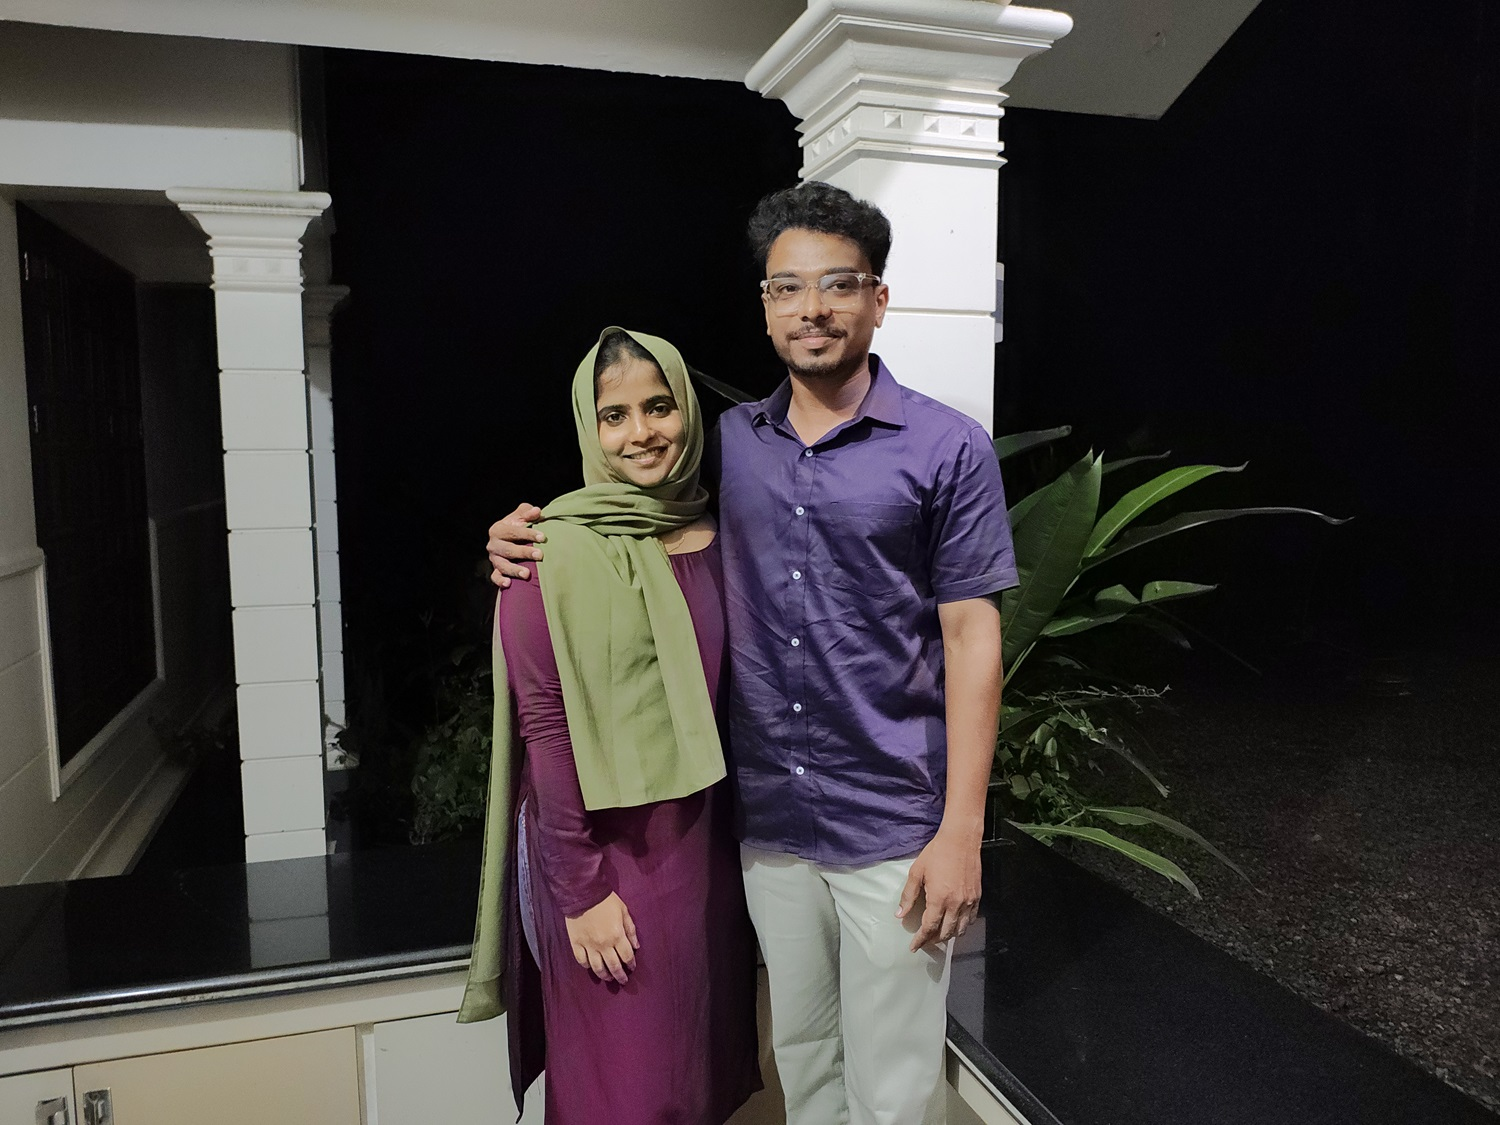
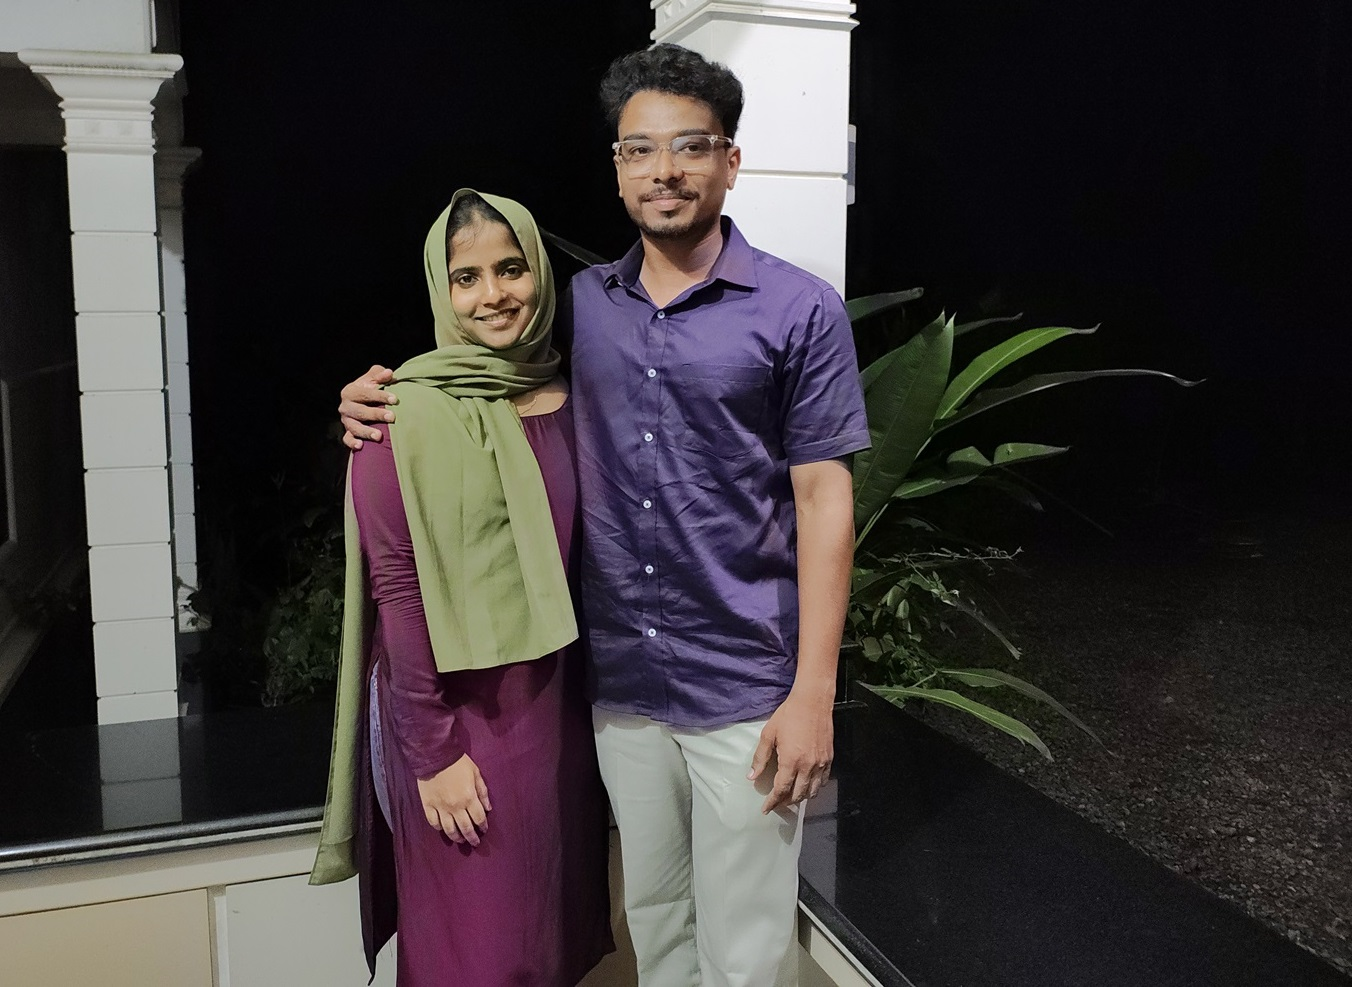
Cover photo changed, map width reduced

diff --git a/index.html b/index.html
@@ -158,7 +158,7 @@
 								<div class="event-wrap animate-box">
 									<h3>Map</h3>
 									<iframe src="https://www.google.com/maps/embed?pb=!1m18!1m12!1m3!1d291.3598311460585!2d75.97330967315234!3d10.730241394707006!2m3!1f0!2f0!3f0!3m2!1i1024!2i768!4f13.1!3m3!1m2!1s0x3ba7bc144924bcf1%3A0xa512888d18fde7d9!2sPALACE%20AUDITORIUM!5e0!3m2!1sen!2sin!4v1727253755409!5m2!1sen!2sin" 
-									width="280" height="150" style="border:0;" allowfullscreen="" loading="lazy" referrerpolicy="no-referrer-when-downgrade"></iframe>
+									width="300" height="150" style="border:0;" allowfullscreen="" loading="lazy" referrerpolicy="no-referrer-when-downgrade"></iframe>
 								</div>
 							</div>
 						</div>
